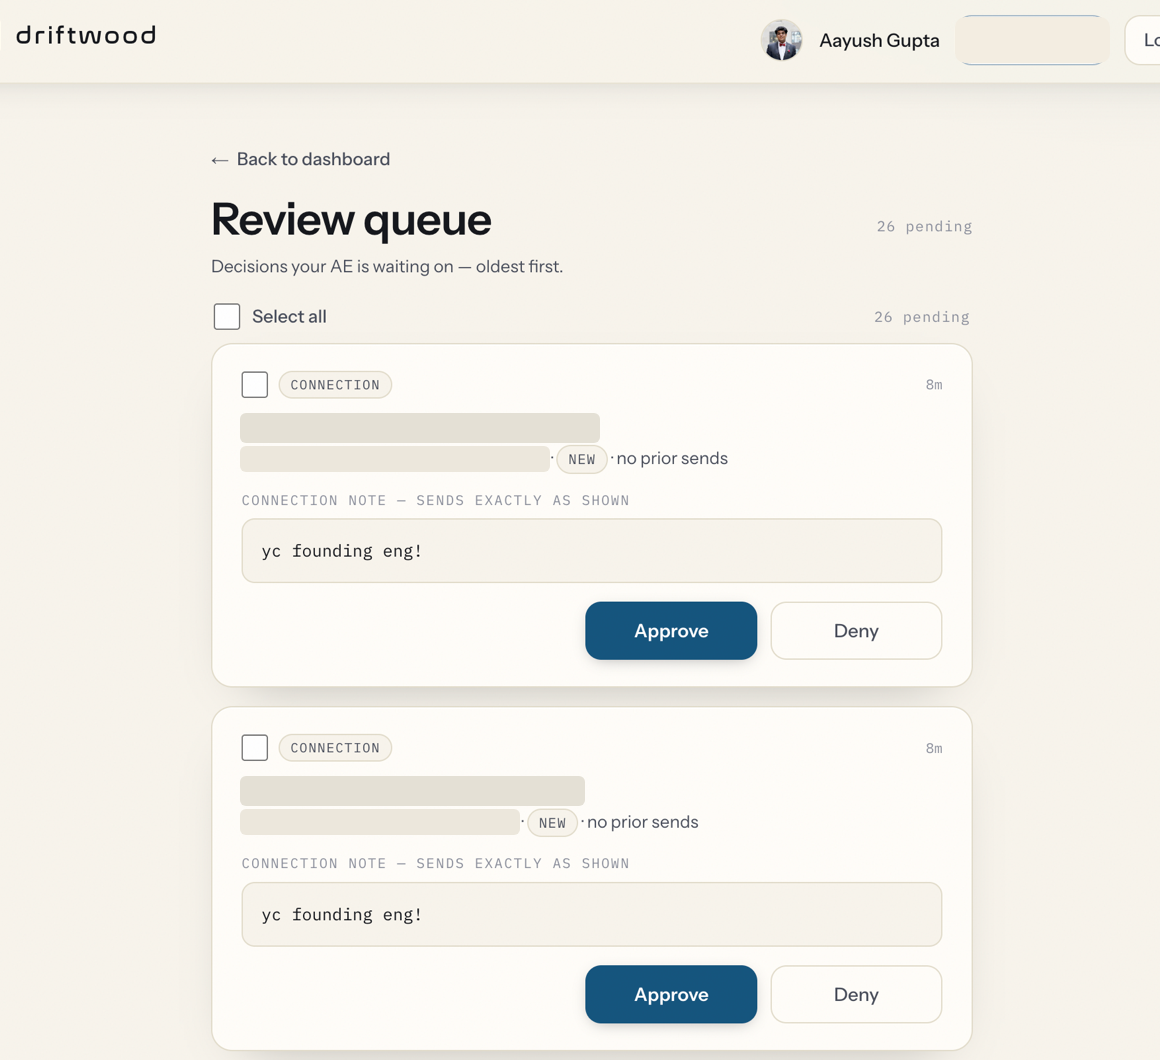
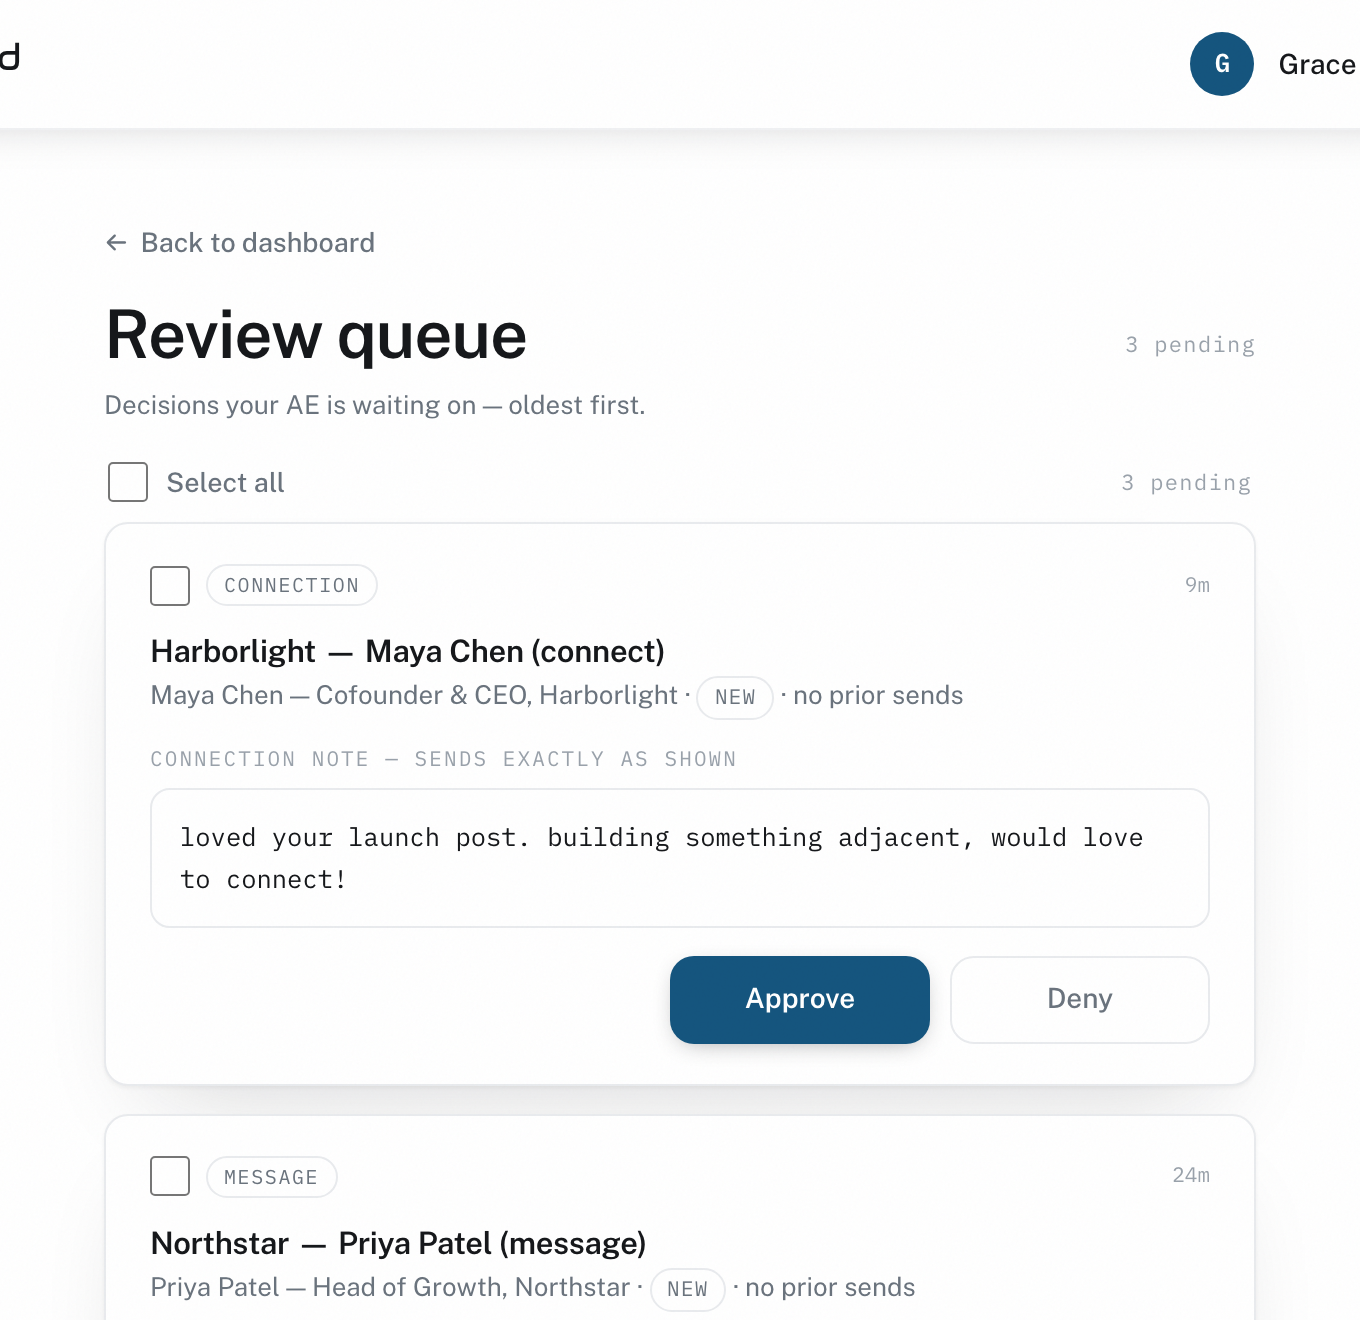
landing: Grace Hopper demo data (4/7/77), review queue re-shot in new style, brown driftwood, ships and islands on the strips, Public Sans wordmark

diff --git a/landing/src/mock.ts b/landing/src/mock.ts
@@ -6,8 +6,8 @@ if (params.has("mock")) {
   const hoursAgo = (h: number) => new Date(Date.now() - h * 3600e3).toISOString();
   const me = {
     id: "mock",
-    email: "yuvan@autosana.ai",
-    name: "Yuvan Sundrani",
+    email: "grace@hopperlabs.dev",
+    name: "Grace Hopper",
     avatar_url: null,
     is_approved: true,
     linkedin_connected: true,
@@ -24,15 +24,15 @@ if (params.has("mock")) {
       within_limits: true,
       last_action_at: hoursAgo(3),
     },
-    funnel: { active: 67, contacted: 34, replied: 1, meetings: 1 },
+    funnel: { active: 124, contacted: 77, replied: 7, meetings: 4 },
     results: {
-      meetings: 1,
-      meetings_delta_7d: 1,
-      replies: 1,
-      replies_delta_7d: 1,
-      reply_rate: 0.0294,
+      meetings: 4,
+      meetings_delta_7d: 2,
+      replies: 7,
+      replies_delta_7d: 3,
+      reply_rate: 0.091,
     },
-    lists: { leads: 67, blacklist: 2 },
+    lists: { leads: 124, blacklist: 2 },
     companies: { qualified: 126, screened_out: 844, unknown: 130 },
     pending_reviews: 3,
   };
@@ -48,7 +48,43 @@ if (params.has("mock")) {
       { at: hoursAgo(21), kind: "reply", lead_id: null, lead_name: null, company_name: null, detail: null },
     ],
   };
+  const lead = (name: string, title: string, company: string) => ({
+    lead_id: name, name, title, company, stage: "new", prior_sends: 0, last_sent_at: null,
+  });
+  const reviews = {
+    pending: [
+      {
+        id: "r1", batch_id: "b1", agent_id: "demo", kind: "send_connection",
+        title: "Harborlight \u2014 Maya Chen (connect)",
+        body: "loved your launch post. building something adjacent, would love to connect!",
+        lead: lead("Maya Chen", "Cofounder & CEO", "Harborlight"),
+        attachment_slug: null, evidence: null, status: "pending",
+        decision_reason: null, decided_at: null, scheduled_batch_id: null,
+        created_at: hoursAgo(0.15),
+      },
+      {
+        id: "r2", batch_id: "b1", agent_id: "demo", kind: "send_message",
+        title: "Northstar \u2014 Priya Patel (message)",
+        body: "hey priya, found a dead link on northstar's pricing page. built you a working demo of the fix, 19 seconds, link below. worth a look?",
+        lead: lead("Priya Patel", "Head of Growth", "Northstar"),
+        attachment_slug: null, evidence: null, status: "pending",
+        decision_reason: null, decided_at: null, scheduled_batch_id: null,
+        created_at: hoursAgo(0.4),
+      },
+      {
+        id: "r3", batch_id: "b2", agent_id: "demo", kind: "send_connection",
+        title: "Ledgerline \u2014 Sam Okafor (connect)",
+        body: "fellow yc founder! building in the fintech tooling space too.",
+        lead: lead("Sam Okafor", "CTO", "Ledgerline"),
+        attachment_slug: null, evidence: null, status: "pending",
+        decision_reason: null, decided_at: null, scheduled_batch_id: null,
+        created_at: hoursAgo(1.1),
+      },
+    ],
+    decided: [], total_pending: 3, limit: 25, offset: 0,
+  };
   const routes: [string, unknown][] = [
+    ["/api/v1/dashboard/reviews", reviews],
     ["/auth/me", me],
     ["/api/v1/dashboard/summary", summary],
     ["/api/v1/dashboard/activity", activity],

diff --git a/landing/src/App.tsx b/landing/src/App.tsx
@@ -188,6 +188,9 @@ export default function App() {
     const CELL_W = 9;
     const CELL_H = 13;
     const WOOD = "\u2597\u2584\u2584\u2584\u2584\u2584\u2584\u2596"; // ▗▄▄▄▄▄▄▖ a drifting log
+    const SAIL = "\u259f\u258c"; // ▟▌
+    const HULL = "\u2580\u2580\u2580\u2580"; // ▀▀▀▀
+    const ISLE = "\u2581\u2582\u2583\u2584\u2583\u2582\u2581"; // ▁▂▃▄▃▂▁
 
     type Mount = {
       canvas: HTMLCanvasElement;
@@ -253,6 +256,7 @@ export default function App() {
       m.ctx.textBaseline = "middle";
       m.cols = Math.ceil(w / CELL_W);
       m.rows = Math.ceil(h / CELL_H);
+      m.phase = (m.canvas.getBoundingClientRect().top + scrollY) * 0.02;
     };
     resize();
 
@@ -296,12 +300,30 @@ export default function App() {
             }
           }
         }
+        if (strip) {
+          const sceneKind = Math.round(phase * 10) % 2; // varies per strip
+          if (sceneKind === 0) {
+            // a small ship on the horizon, under sail
+            const span = cols + 30;
+            const sx = -10 + ((t * 2.2 + phase * 8 + 60) % span);
+            const sy = rows * 0.58 + wave(sx, rows * 0.58, t, phase) * 0.7;
+            ctx.fillStyle = "rgba(13, 60, 91, 0.95)";
+            ctx.fillText(SAIL, (sx + 1) * CELL_W, (sy - 1) * CELL_H + CELL_H / 2);
+            ctx.fillText(HULL, sx * CELL_W, sy * CELL_H + CELL_H / 2);
+          } else {
+            // an island, holding still while the water moves
+            const ix = 6 + (Math.abs(Math.round(phase * 53)) % Math.max(8, cols - 20));
+            const iy = rows * 0.55;
+            ctx.fillStyle = "rgba(110, 100, 80, 0.9)";
+            ctx.fillText(ISLE, ix * CELL_W, iy * CELL_H + CELL_H / 2);
+          }
+        }
         if (!strip) {
-          // the driftwood: adrift right-to-left, riding the swell
+          // the driftwood: adrift, riding the swell
           const span = cols + WOOD.length + 20;
           const wx = -WOOD.length - 8 + ((t * 1.7 + 6) % span); // west to east
           const wr = rows * 0.45 + wave(wx, rows * 0.45, t, phase) * 1.6;
-          ctx.fillStyle = "rgba(58, 66, 74, 0.95)";
+          ctx.fillStyle = "rgba(121, 85, 52, 0.95)"; // driftwood-brown
           ctx.font = 'bold 13px ui-monospace, "SF Mono", Menlo, monospace';
           ctx.fillText(WOOD, wx * CELL_W, wr * CELL_H + CELL_H / 2);
           ctx.font = '12px ui-monospace, "SF Mono", Menlo, monospace';

diff --git a/landing/src/index.css b/landing/src/index.css
@@ -233,7 +233,7 @@ body {
 
 .landing header { position: sticky; top: 0; z-index: 20; background: rgba(255,255,255,0.94); border-bottom: 1px solid var(--line); }
 .landing .nav { display: flex; align-items: center; justify-content: space-between; height: 4rem; }
-.landing .wordmark { display: inline-flex; align-items: center; gap: 0.65rem; text-decoration: none; font-family: "Nasalization", "Public Sans", sans-serif; font-weight: 400; font-size: 1rem; letter-spacing: 0.09em; text-transform: lowercase; }
+.landing .wordmark { display: inline-flex; align-items: center; gap: 0.6rem; text-decoration: none; font-family: "Public Sans", sans-serif; font-weight: 700; font-size: 1.08rem; letter-spacing: 0.015em; }
 .landing .wordmark svg { width: 1.65rem; height: 1.65rem; }
 .landing .nav-right { display: flex; align-items: center; gap: 1.6rem; }
 .landing .nav-login { font-size: 0.9rem; color: var(--gray); text-decoration: none; }
